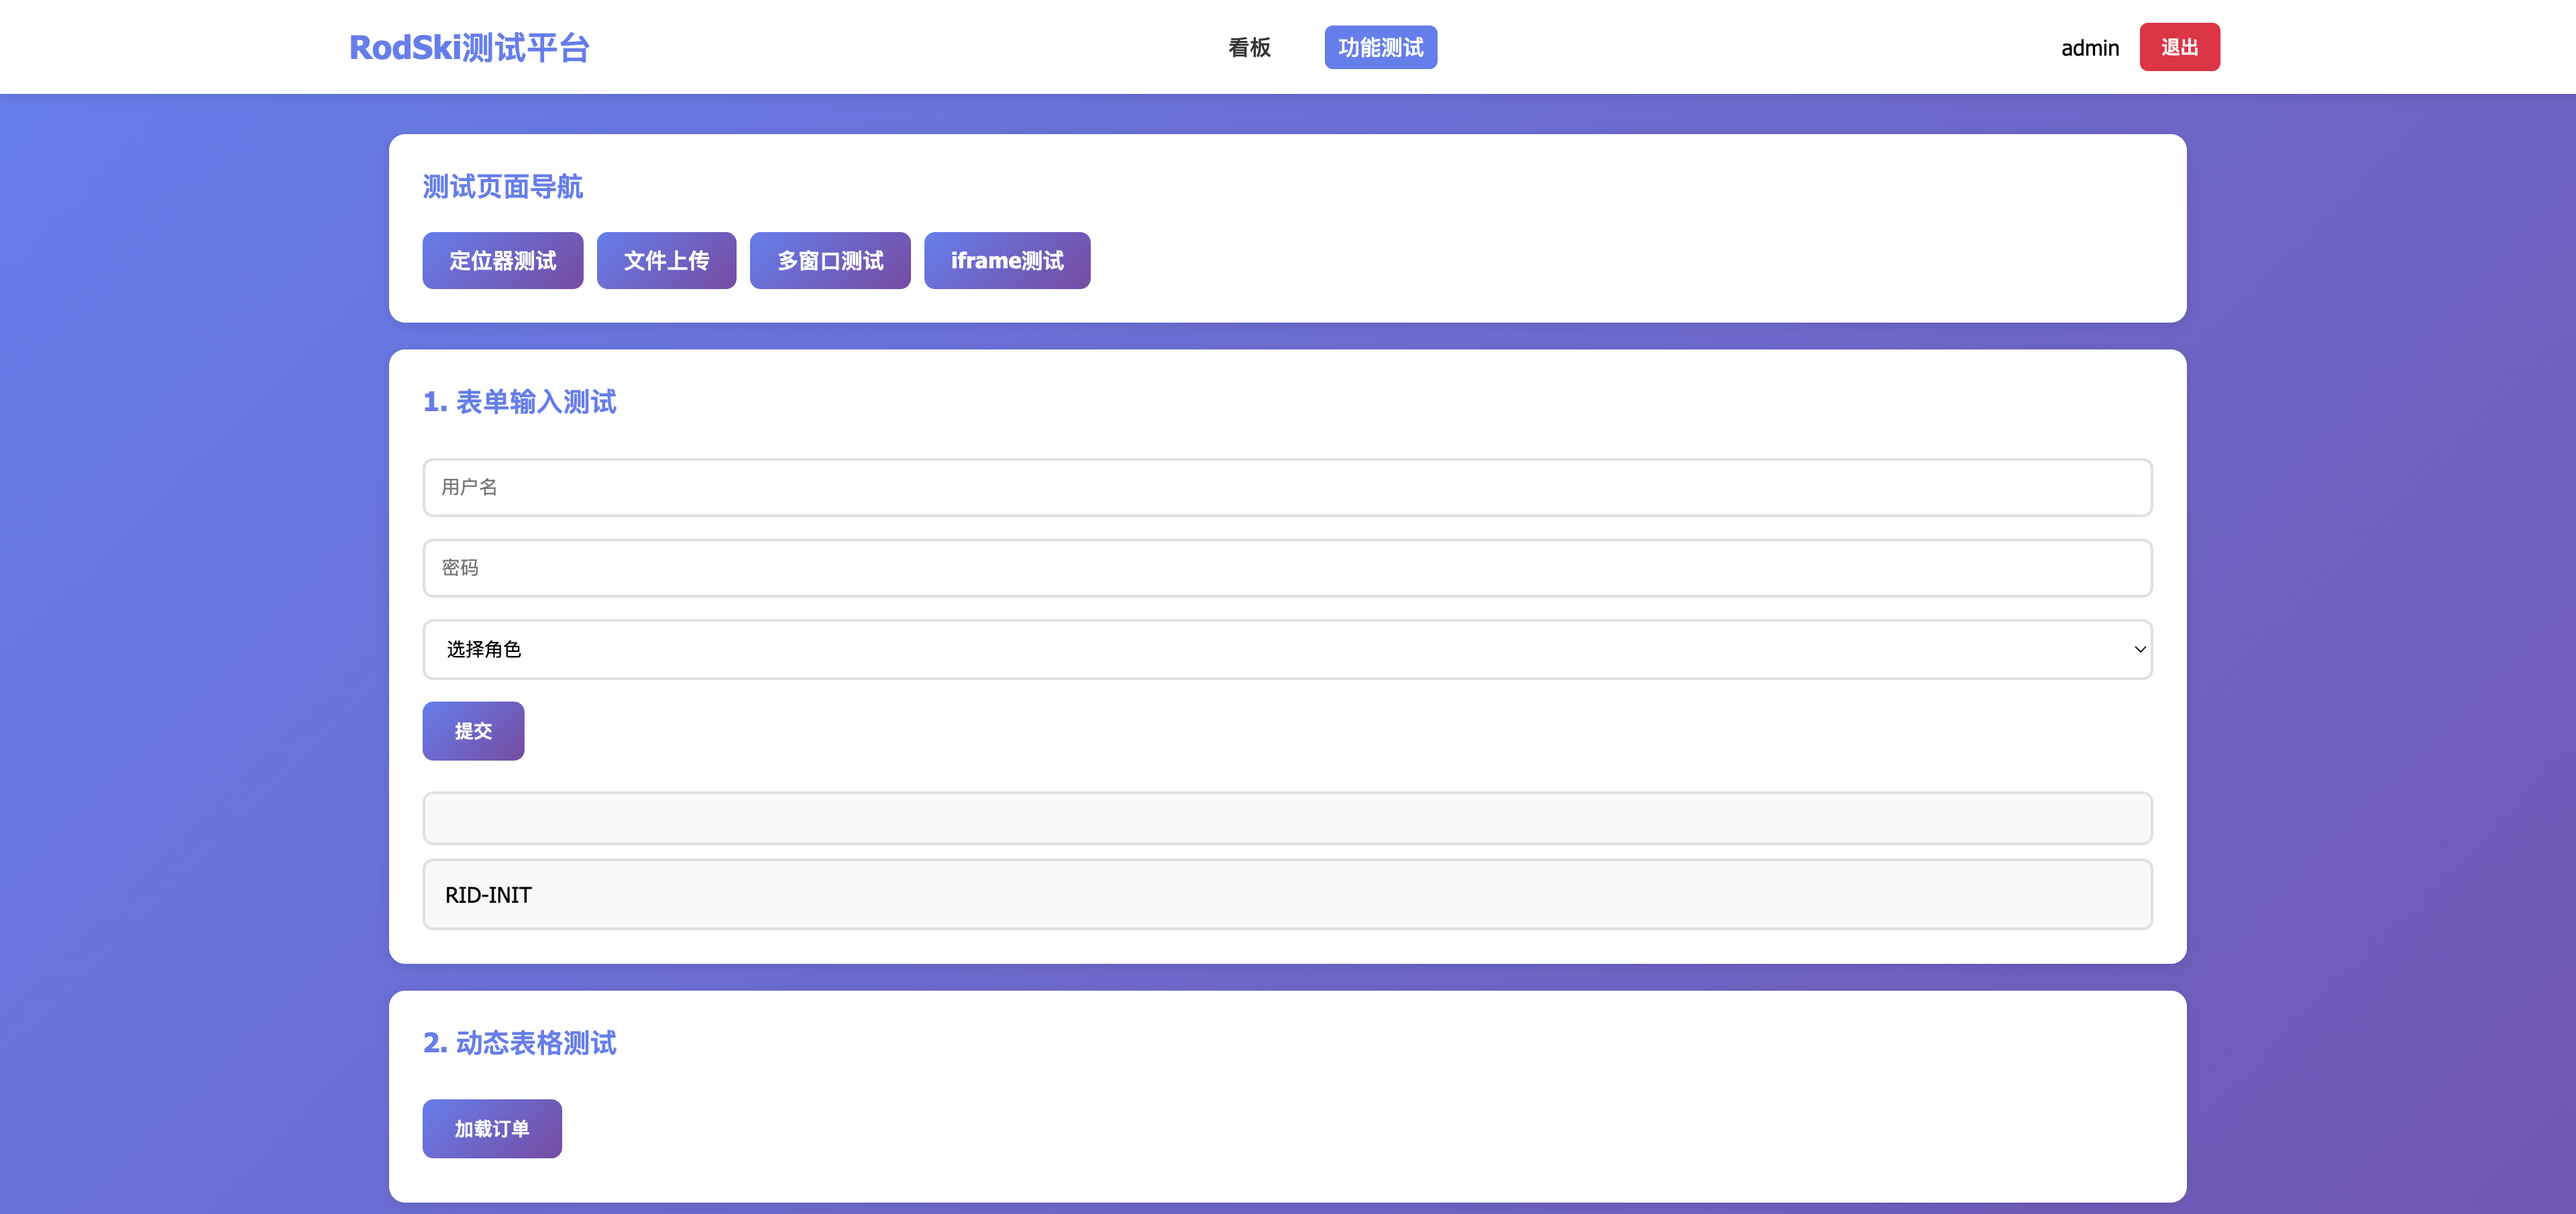
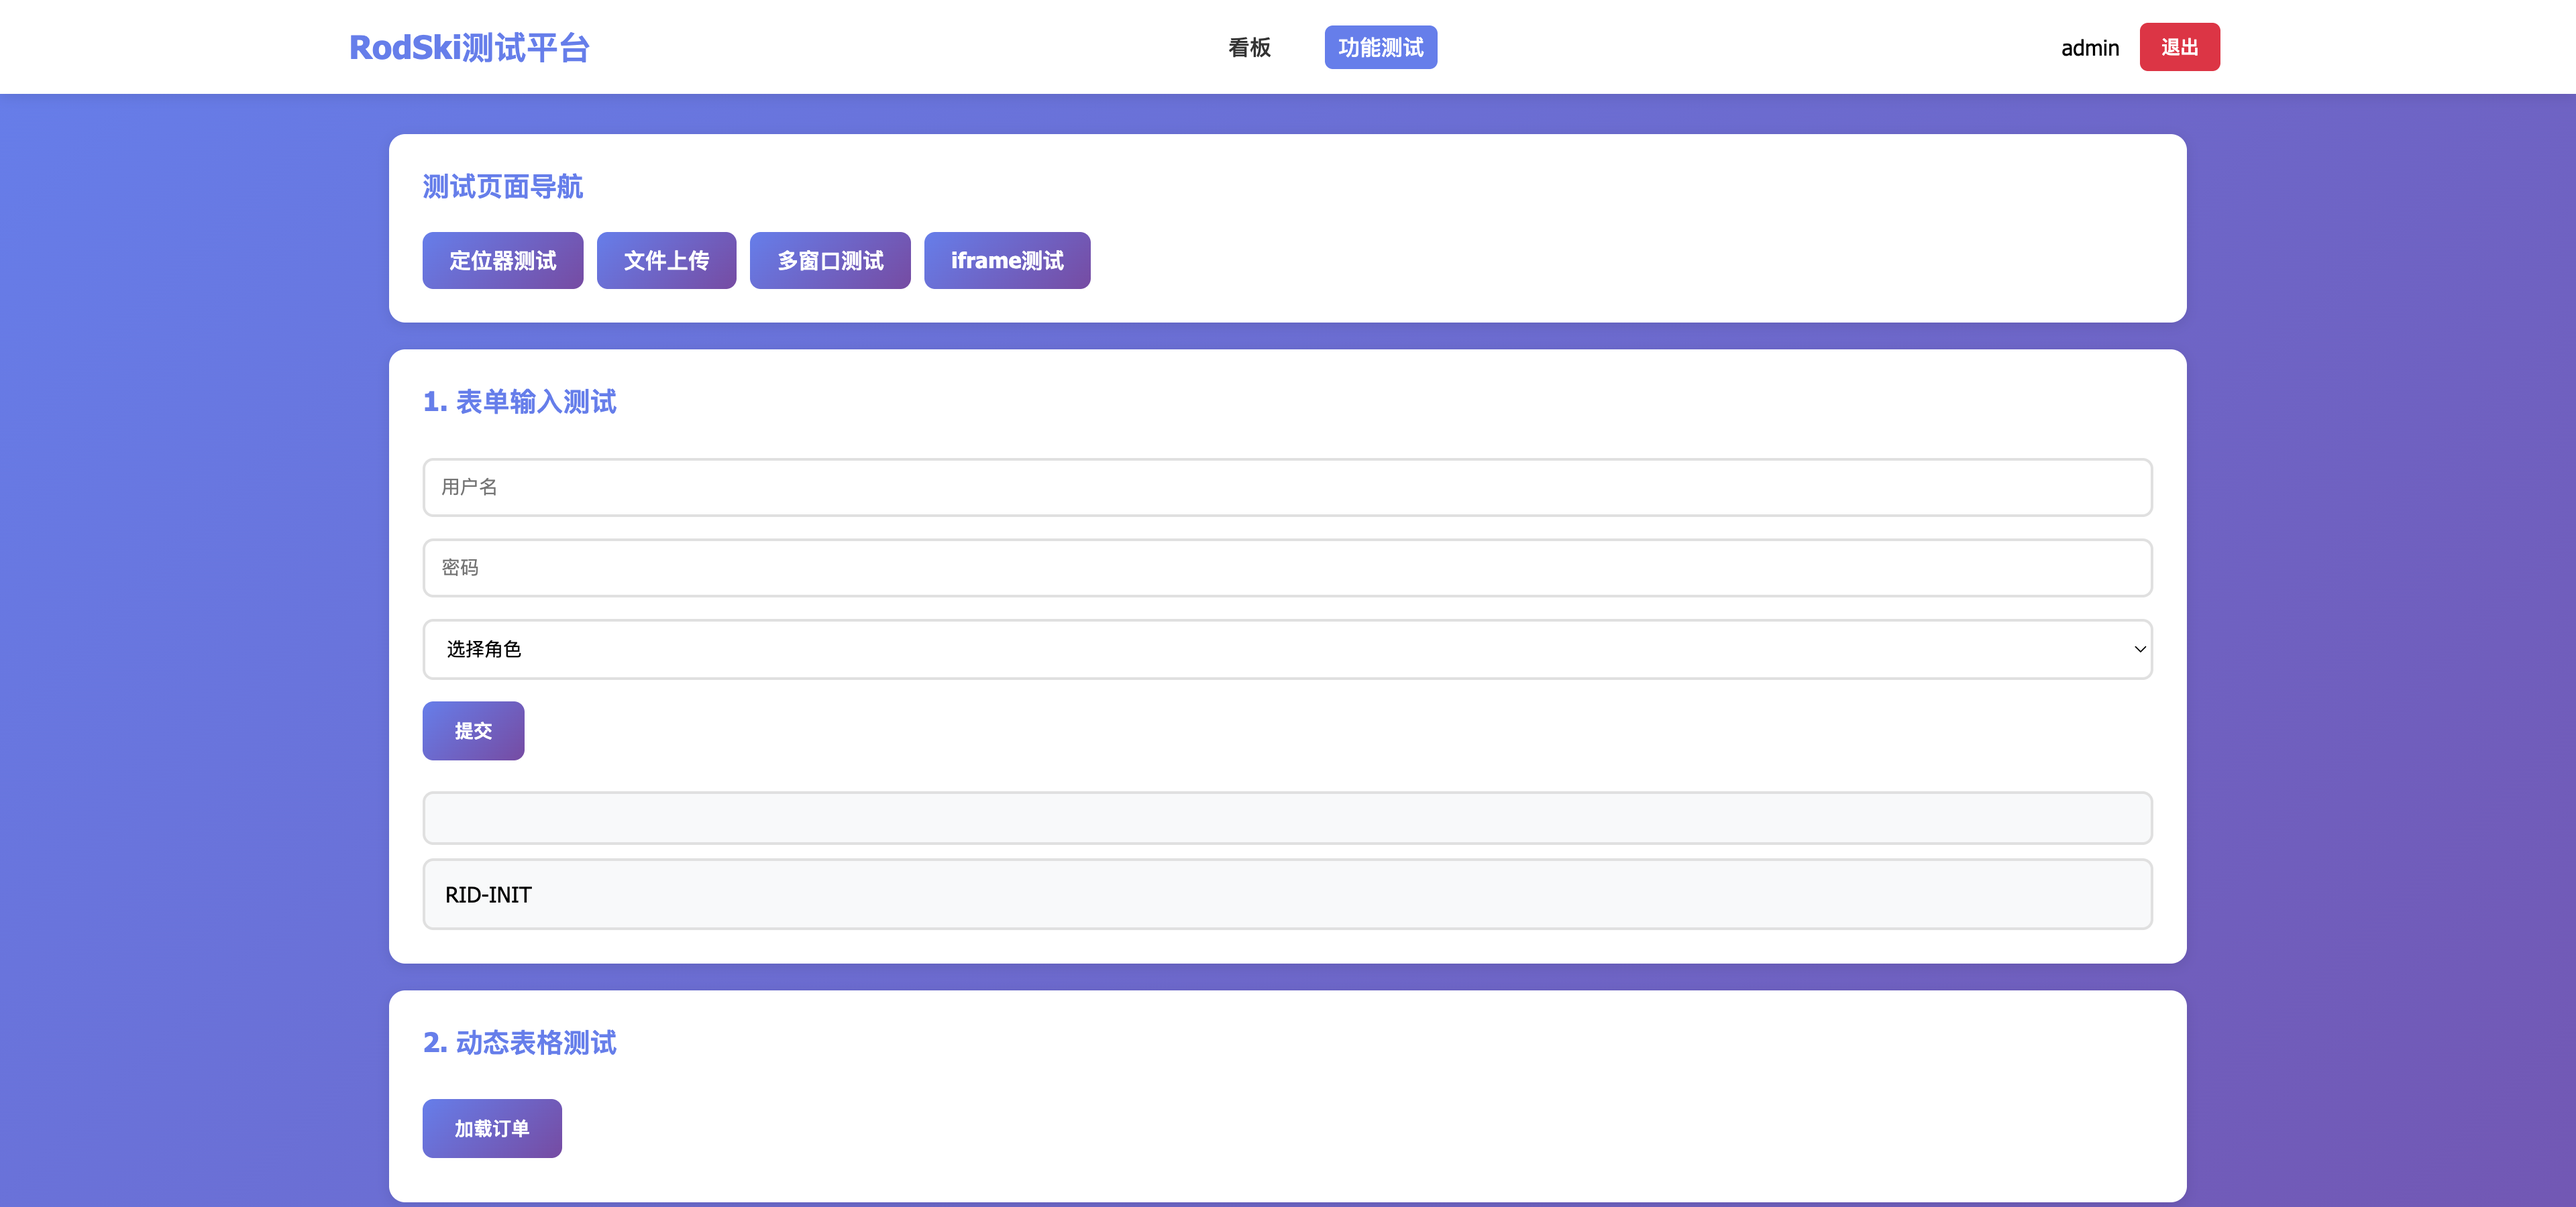
fix(core): _ensure_driver 处理 driver=None，_kw_screenshot 补 driver 保护
- KeywordEngine._ensure_driver() 新增 self.driver is None 检查，
  driver 为 None 且存在 driver_factory 时自动调用 factory 恢复
- KeywordEngine._kw_screenshot() 头部补调 self._ensure_driver()，
  避免 driver=None 时直接抛出 NoneType.screenshot

版本: 8.1.0 → 8.1.1
验收: rodski-demo/DEMO/demo_full 57/57 通过

Closes #1

diff --git a/rodski/core/keyword_engine.py b/rodski/core/keyword_engine.py
@@ -936,11 +936,15 @@ class KeywordEngine:
     # ── UI 操作关键字 ─────────────────────────────────────────────
 
     def _ensure_driver(self) -> None:
-        """确保驱动可用，如果已关闭则通过工厂重新创建"""
+        """确保驱动可用，如果为 None 或已关闭则通过工厂重新创建"""
+        is_none = self.driver is None
         is_closed = getattr(self.driver, '_is_closed', False)
-        if is_closed is True:
+        if is_none or is_closed is True:
             if self._driver_factory:
-                logger.info("浏览器已关闭，自动创建新浏览器实例...")
+                if is_none:
+                    logger.info("driver 为 None，自动创建新浏览器实例...")
+                else:
+                    logger.info("浏览器已关闭，自动创建新浏览器实例...")
                 self.driver = self._driver_factory()
             else:
                 raise DriverStoppedError(
@@ -1822,6 +1826,7 @@ class KeywordEngine:
 
     def _kw_screenshot(self, params: Dict) -> bool:
         """截图"""
+        self._ensure_driver()
         path = params.get("path", "") or params.get("data", "") or "screenshot.png"
         # 解析相对路径：相对于 module_dir（与 assert 关键字一致）
         if self._module_dir:

diff --git a/rodski/__init__.py b/rodski/__init__.py
@@ -1,2 +1,2 @@
 """RodSki Test Framework"""
-__version__ = "8.1.0"
+__version__ = "8.1.1"

diff --git a/rodski/docs/TEST_CASE_WRITING_GUIDE.md b/rodski/docs/TEST_CASE_WRITING_GUIDE.md
@@ -1,8 +1,8 @@
 # RodSki 用例编写指南
 
-**版本**: v7.1.1  
-**日期**: 2026-05-29  
-**适用框架**: RodSki v7.1.1+
+**版本**: v8.0.0  
+**日期**: 2026-06-09  
+**适用框架**: RodSki v8.0.0+
 
 ---
 
@@ -22,8 +22,11 @@
 12. [视觉定位器（vision / vision_bbox）](#12-视觉定位器vision--vision_bbox)
 13. [桌面端自动化（Desktop）](#13-桌面端自动化desktop)
 14. [移动端自动化（Mobile）](#14-移动端自动化mobile)
-15. [附录：常见问题](#附录常见问题)
-16. [附录：测试结果 XML（result.xsd）](#附录测试结果-xmlresultxsd)
+15. [iOS 自动化（v7.3.0）](#15-ios-自动化v730)
+16. [性能压测（v8.0）](#16-性能压测v80)
+17. [附录：常见问题](#附录常见问题)
+18. [附录：关键字速查清单](#附录关键字速查清单)
+19. [附录：测试结果 XML（result.xsd）](#附录测试结果-xmlresultxsd)
 
 ---
 
@@ -74,6 +77,8 @@ product/                           ← 产品根目录（最顶层）
         ├── plan/                  ← 测试计划 XML
         │   ├── project_full.xml
         │   └── *_smoke.xml
+        ├── perf/                  ← 压测预编译产物（v8.0，kind=load 计划自动生成）
+        │   └── api_load_basic.py
         └── result/                ← 测试结果（框架自动生成）
             └── result_20260321_100000.xml
 ```
@@ -1949,7 +1954,266 @@ vision 定位请求
 - ❌ 移动端不支持 `evaluate`（无 JavaScript 执行环境）
 - ❌ 不新增 `swipe`、`long_press` 等独立关键字，通过数据表动作值或 `run` 脚本实现
 
-## 附录：常见问题
+---
+
+## 15. iOS 自动化（v7.3.0）
+
+### 15.1 概述
+
+v7.3.0 补全了 iOS 原生自动化支持。核心原则：
+
+- **关键字层平台无关**：`type / verify / navigate / wait / close` 在 iOS 上与 Android 语义完全一致
+- **平台差异只在 model.xml 中**：通过 `driver_type="mobile"` + 定位器 `platform` 属性区分
+- **数据层完全复用**：`data.sqlite` 与平台无关，Android/iOS 共用同一份数据
+
+### 15.2 driver_type="mobile"
+
+新增 `driver_type="mobile"` 表示平台无关的移动端模型，运行时由 `--platform` 参数或 `Mobile.Platform` 决定实际平台。
+
+`driver_type` 完整枚举：`web` / `interface` / `database` / `windows` / `macos` / `android` / `ios` / **`mobile`**（v7.3.0 新增）
+
+### 15.3 定位器 platform 属性
+
+`<location>` 元素新增可选 `platform` 属性（`android` / `ios`，缺省 = 通用）：
+
+```xml
+<element name="username" type="mobile">
+  <type>input</type>
+  <location type="id" platform="android" priority="1">com.rodski.demo:id/username</location>
+  <location type="id" platform="ios"     priority="1">username_field</location>
+  <location type="ocr"                   priority="2">用户名</location>
+</element>
+```
+
+**解析规则**：运行时过滤 `platform` 不匹配的 location，再按 `priority` 排序；同 priority 下平台匹配优先于通用。
+
+### 15.4 定位器跨平台能力
+
+| 定位器 | 跨平台 | 说明 |
+|--------|--------|------|
+| `ocr` / `text` / `vision` / `vision_image` | ✅ | 无需 platform 标记 |
+| `vision_bbox` | ⚠ | 坐标因分辨率不同，建议标 platform |
+| `id` / `xpath` / `class` | ❌ | 平台专属，必须标 platform |
+
+### 15.5 iOS 专属定位器
+
+v7.3.0 新增两个 iOS 高性能定位器（必须标 `platform="ios"`）：
+
+| 定位器 | 说明 |
+|--------|------|
+| `predicate` | NSPredicate 字符串，如 `label == '登录' AND type == 'XCUIElementTypeButton'` |
+| `class_chain` | XCUITest 路径，如 `` **/XCUIElementTypeButton[`label == '登录'`] `` |
+
+```xml
+<location type="predicate"   platform="ios" priority="1">label == '登录'</location>
+<location type="class_chain" platform="ios" priority="2">**/XCUIElementTypeButton[`label == '登录'`]</location>
+```
+
+### 15.6 推荐 model 写法（模式 B：平台标记 + 跨平台兜底）
+
+```xml
+<?xml version="1.0" encoding="UTF-8"?>
+<models>
+  <model name="LoginScreen" type="ui" driver_type="mobile">
+    <element name="username" type="mobile">
+      <type>input</type>
+      <location type="id" platform="android" priority="1">com.rodski.demo:id/username</location>
+      <location type="id" platform="ios"     priority="1">username_field</location>
+      <location type="ocr"                   priority="2">用户名</location>
+    </element>
+    <element name="loginBtn" type="mobile">
+      <type>button</type>
+      <location type="id"          platform="android" priority="1">com.rodski.demo:id/loginBtn</location>
+      <location type="predicate"   platform="ios"     priority="1">label == '登录'</location>
+      <location type="text"                           priority="2">登录</location>
+    </element>
+  </model>
+</models>
+```
+
+### 15.7 iOS GlobalValue 配置
+
+```xml
+<globalvalue>
+  <group name="Mobile">
+    <var name="Platform"          value="ios"/>
+    <var name="AppiumServer"      value="http://127.0.0.1:4723"/>
+    <var name="DeviceName"        value="iPhone 16"/>
+    <var name="UDID"              value="AC199BB6-54B6-424A-9D3C-B8CEA8DF89BC"/>
+    <var name="BundleId"          value="com.rodski.demo"/>
+    <var name="AppTarget"         value="app://ios/com.rodski.demo"/>
+    <var name="NoReset"           value="true"/>
+    <var name="NewCommandTimeout" value="120"/>
+  </group>
+</globalvalue>
+```
+
+### 15.8 平台切换
+
+```bash
+# CLI 参数（临时切换）
+rodski run case/login.xml --platform ios
+rodski run case/login.xml --platform android
+
+# 通过计划（持久配置）
+rodski run @ios_smoke     # plan 指向 globalvalue_ios.xml
+```
+
+### 15.9 环境要求
+
+| | Simulator | 真机 |
+|--|-----------|------|
+| 连接 | 无需 | USB + WebDriverAgent（需 Apple 开发者账号签名） |
+| SDK | 随 Xcode | 需对应 iOS 版本 SDK |
+
+**Simulator 快速启动**：
+
+```bash
+xcrun simctl boot "iPhone 16"
+xcrun simctl install booted RodskiDemo.app
+rodski run case/login.xml --platform ios
+```
+
+---
+
+## 16. 性能压测（v8.0）
+
+### 16.1 核心概念
+
+v8.0 新增压测能力（`kind="load"` 计划），与功能测试完全独立：
+
+| 维度 | 功能测试（kind=suite） | 性能测试（kind=load） |
+|------|---------------------|-------------------|
+| 执行路径 | SKIExecutor | LoadExecutor |
+| 用例语义 | 每条 case 执行一次，记录 PASS/FAIL | 多 VU 反复执行，记录 RPS/延迟 |
+| verify 失败 | case FAIL | 记为错误请求，继续执行 |
+| 截图 | 失败时自动截图 | 不截图 |
+
+### 16.2 两种压测模式
+
+| 模式 | `mode` | 适用场景 | 后端 |
+|------|--------|---------|------|
+| 接口压测 | `api`（默认） | REST API | Locust FastHttpUser |
+| 浏览器压测 | `browser` | Web 页面 | Playwright 多进程池 |
+
+### 16.3 压测计划 XML（plan/xxx_load.xml）
+
+**接口压测示例**（kind=load + mode=api）：
+
+```xml
+<?xml version="1.0" encoding="UTF-8"?>
+<test_plan id="api_load_basic" kind="load">
+
+  <load_profile mode="api">
+    <concurrency>50</concurrency>           <!-- 并发 VU 数 -->
+    <duration_seconds>120</duration_seconds>
+    <ramp_up_seconds>30</ramp_up_seconds>
+    <think_time_ms min="200" max="800"/>    <!-- 迭代间思考时间 -->
+    <max_rps>0</max_rps>                    <!-- 0 = 不限制 -->
+    <host>http://api.example.com</host>     <!-- 覆盖 GlobalValue URL -->
+  </load_profile>
+
+  <cases>
+    <!-- weight 控制 VU 任务调度权重 -->
+    <case id="login_api"    execute="是" weight="3"/>
+    <case id="order_query"  execute="是" weight="1"/>
+  </cases>
+
+</test_plan>
+```
+
+**浏览器压测示例**（kind=load + mode=browser）：
+
+```xml
+<?xml version="1.0" encoding="UTF-8"?>
+<test_plan id="web_load_basic" kind="load">
+
+  <load_profile mode="browser">
+    <concurrency>10</concurrency>           <!-- 并发浏览器进程数（受内存限制） -->
+    <duration_seconds>60</duration_seconds>
+    <ramp_up_seconds>10</ramp_up_seconds>
+    <think_time_ms min="500" max="2000"/>
+  </load_profile>
+
+  <cases>
+    <case id="login_ui" execute="是" weight="1"/>
+  </cases>
+
+</test_plan>
+```
+
+**load_profile 属性说明**：
+
+| 元素 | 必填 | 说明 |
+|------|------|------|
+| `concurrency` | 是 | 并发 VU 数（api）或并发进程数（browser） |
+| `duration_seconds` | 是 | 持续时长（秒） |
+| `ramp_up_seconds` | 否 | 爬坡时间（默认 0） |
+| `think_time_ms` | 否 | 迭代间思考时间范围（毫秒） |
+| `max_rps` | 否 | 最大 RPS 上限，0 = 不限（api 模式专用） |
+| `host` | 否 | 覆盖 GlobalValue 中的目标地址 |
+
+`mode` 属性：`api`（默认）/ `browser`
+
+### 16.4 约束
+
+- **必须通过 plan 文件声明**，不支持 `--load --concurrency N` 临时压测
+- `mode="api"` 计划只能引用 `component_type="接口"` 的 case
+- `mode="browser"` 计划只能引用 `component_type="界面"` 的 case
+- load 计划不支持 scenario 级别选择（只能整个 case 粒度）
+- `@plan_id` 与 selector 互斥约束照常成立
+
+### 16.5 perf/ 目录
+
+`kind="load"` 计划首次执行时，LoadCompiler 自动在 `perf/` 目录生成预编译产物：
+
+```
+{测试模块}/
+├── plan/
+│   └── api_load_basic.xml     ← kind="load"
+└── perf/                      ← 自动生成（可纳入版本管理）
+    ├── api_load_basic.py       ← 预编译 Locust 脚本
+    └── api_load_basic.py.meta ← 哈希元数据（用于检测变更）
+```
+
+`perf/` 产物可脱离 RodSki 独立运行（直接 `locust -f perf/api_load_basic.py`）。
+
+### 16.6 CLI 命令
+
+```bash
+# 执行压测计划
+rodski run @api_load_basic
+
+# 启动 Locust Web UI 实时监控（默认端口 8089）
+rodski run @api_load_basic --load-ui
+rodski run @api_load_basic --load-ui-port 9090
+
+# 跳过预编译（直接使用已有 perf/*.py）
+rodski run @api_load_basic --no-compile
+
+# 预览执行范围（不发真实请求）
+rodski run @api_load_basic --dry-run
+```
+
+### 16.7 结果输出
+
+压测结果写入 `result/result_*.xml`，扩展 `<load_summary>` 节点，包含：
+
+- RPS（每秒请求数）
+- P50 / P95 / P99 延迟
+- 错误率
+- 总请求数 / 失败数
+
+`--report html` 报告含"性能概览"区块。
+
+### 16.8 安装依赖
+
+```bash
+# 压测依赖（Locust）为可选 extras
+pip install rodski[load]
+```
+
+---
 
 ### Q1: 用例没有执行？
 
@@ -2043,5 +2307,5 @@ Return 引用只应写在**数据表 XML 的 field 值中**，不要直接写在
 
 ---
 
-**文档版本**: v7.0.1
-**最后更新**: 2026-05-21
+**文档版本**: v8.0.0
+**最后更新**: 2026-06-09
